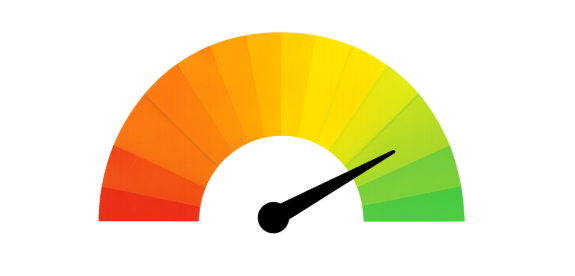
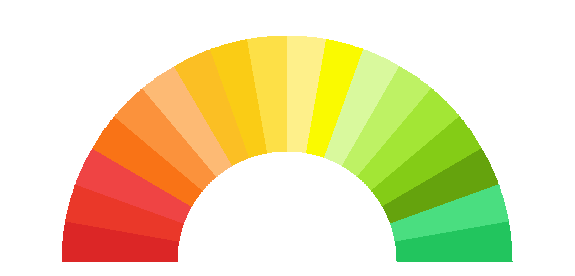
Fix dual needle issue in gauge and add hover box to Back to My Work link
- Replaced speedometer-gauge.png with version without embedded needle
- Now only the CSS-rendered dynamic needle shows the score
- Added hover effect to 'Back to My Work' link with muted brown box (#E8E5DF)
- Hover box matches the theme with smooth transition and rounded corners

diff --git a/src/pages/EnterpriseAIPreparedness.tsx b/src/pages/EnterpriseAIPreparedness.tsx
@@ -234,7 +234,7 @@ const EnterpriseAIPreparedness = () => {
         {/* Header */}
         <header className="border-b border-[#E8E5DF] bg-white">
           <div className="max-w-6xl mx-auto px-4 sm:px-6 lg:px-8 py-4">
-            <Link to="/mywork" className="text-[#8b7355] hover:text-[#6d5a43] transition-colors text-sm font-medium">
+            <Link to="/mywork" className="text-[#8b7355] hover:text-[#6d5a43] hover:bg-[#E8E5DF] hover:px-3 hover:py-2 hover:-mx-3 hover:-my-2 px-3 py-2 -mx-3 -my-2 rounded-sm transition-all duration-200 text-sm font-medium cursor-pointer inline-block">
               ← Back to My Work
             </Link>
           </div>
@@ -832,7 +832,7 @@ const EnterpriseAIPreparedness = () => {
           <div className="mt-8 text-center print:hidden">
             <Link 
               to="/mywork"
-              className="text-[#8b7355] hover:text-[#6d5a43] transition-colors text-sm font-medium"
+              className="text-[#8b7355] hover:text-[#6d5a43] hover:bg-[#E8E5DF] px-3 py-2 rounded-sm transition-all duration-200 text-sm font-medium cursor-pointer inline-block"
             >
               ← Back to My Work
             </Link>
